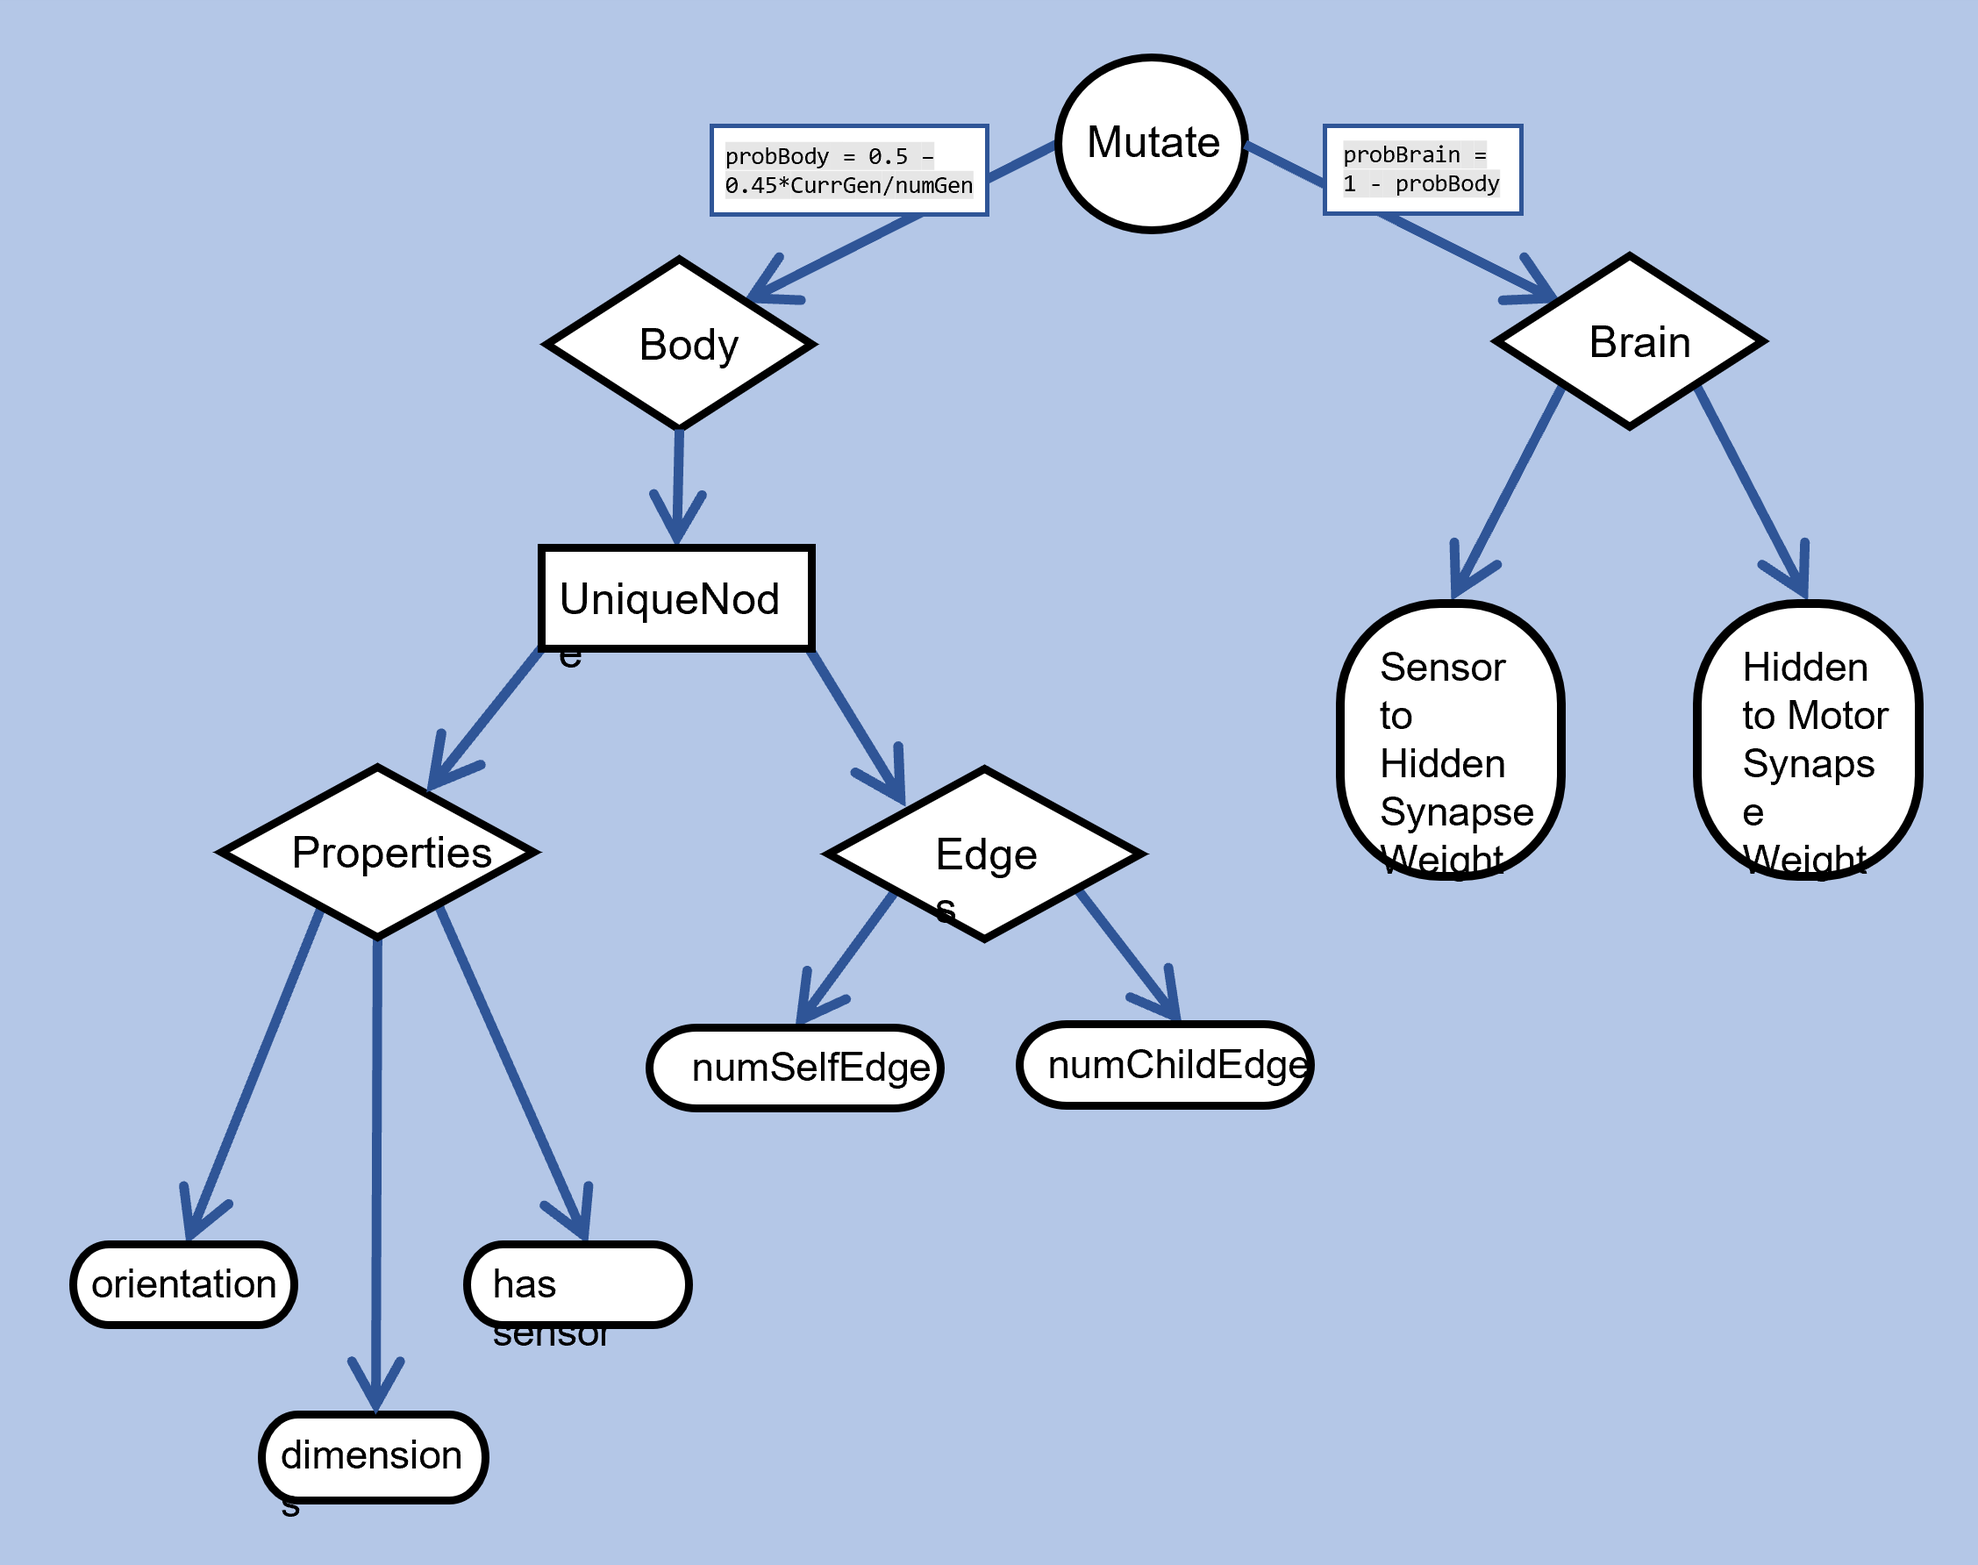
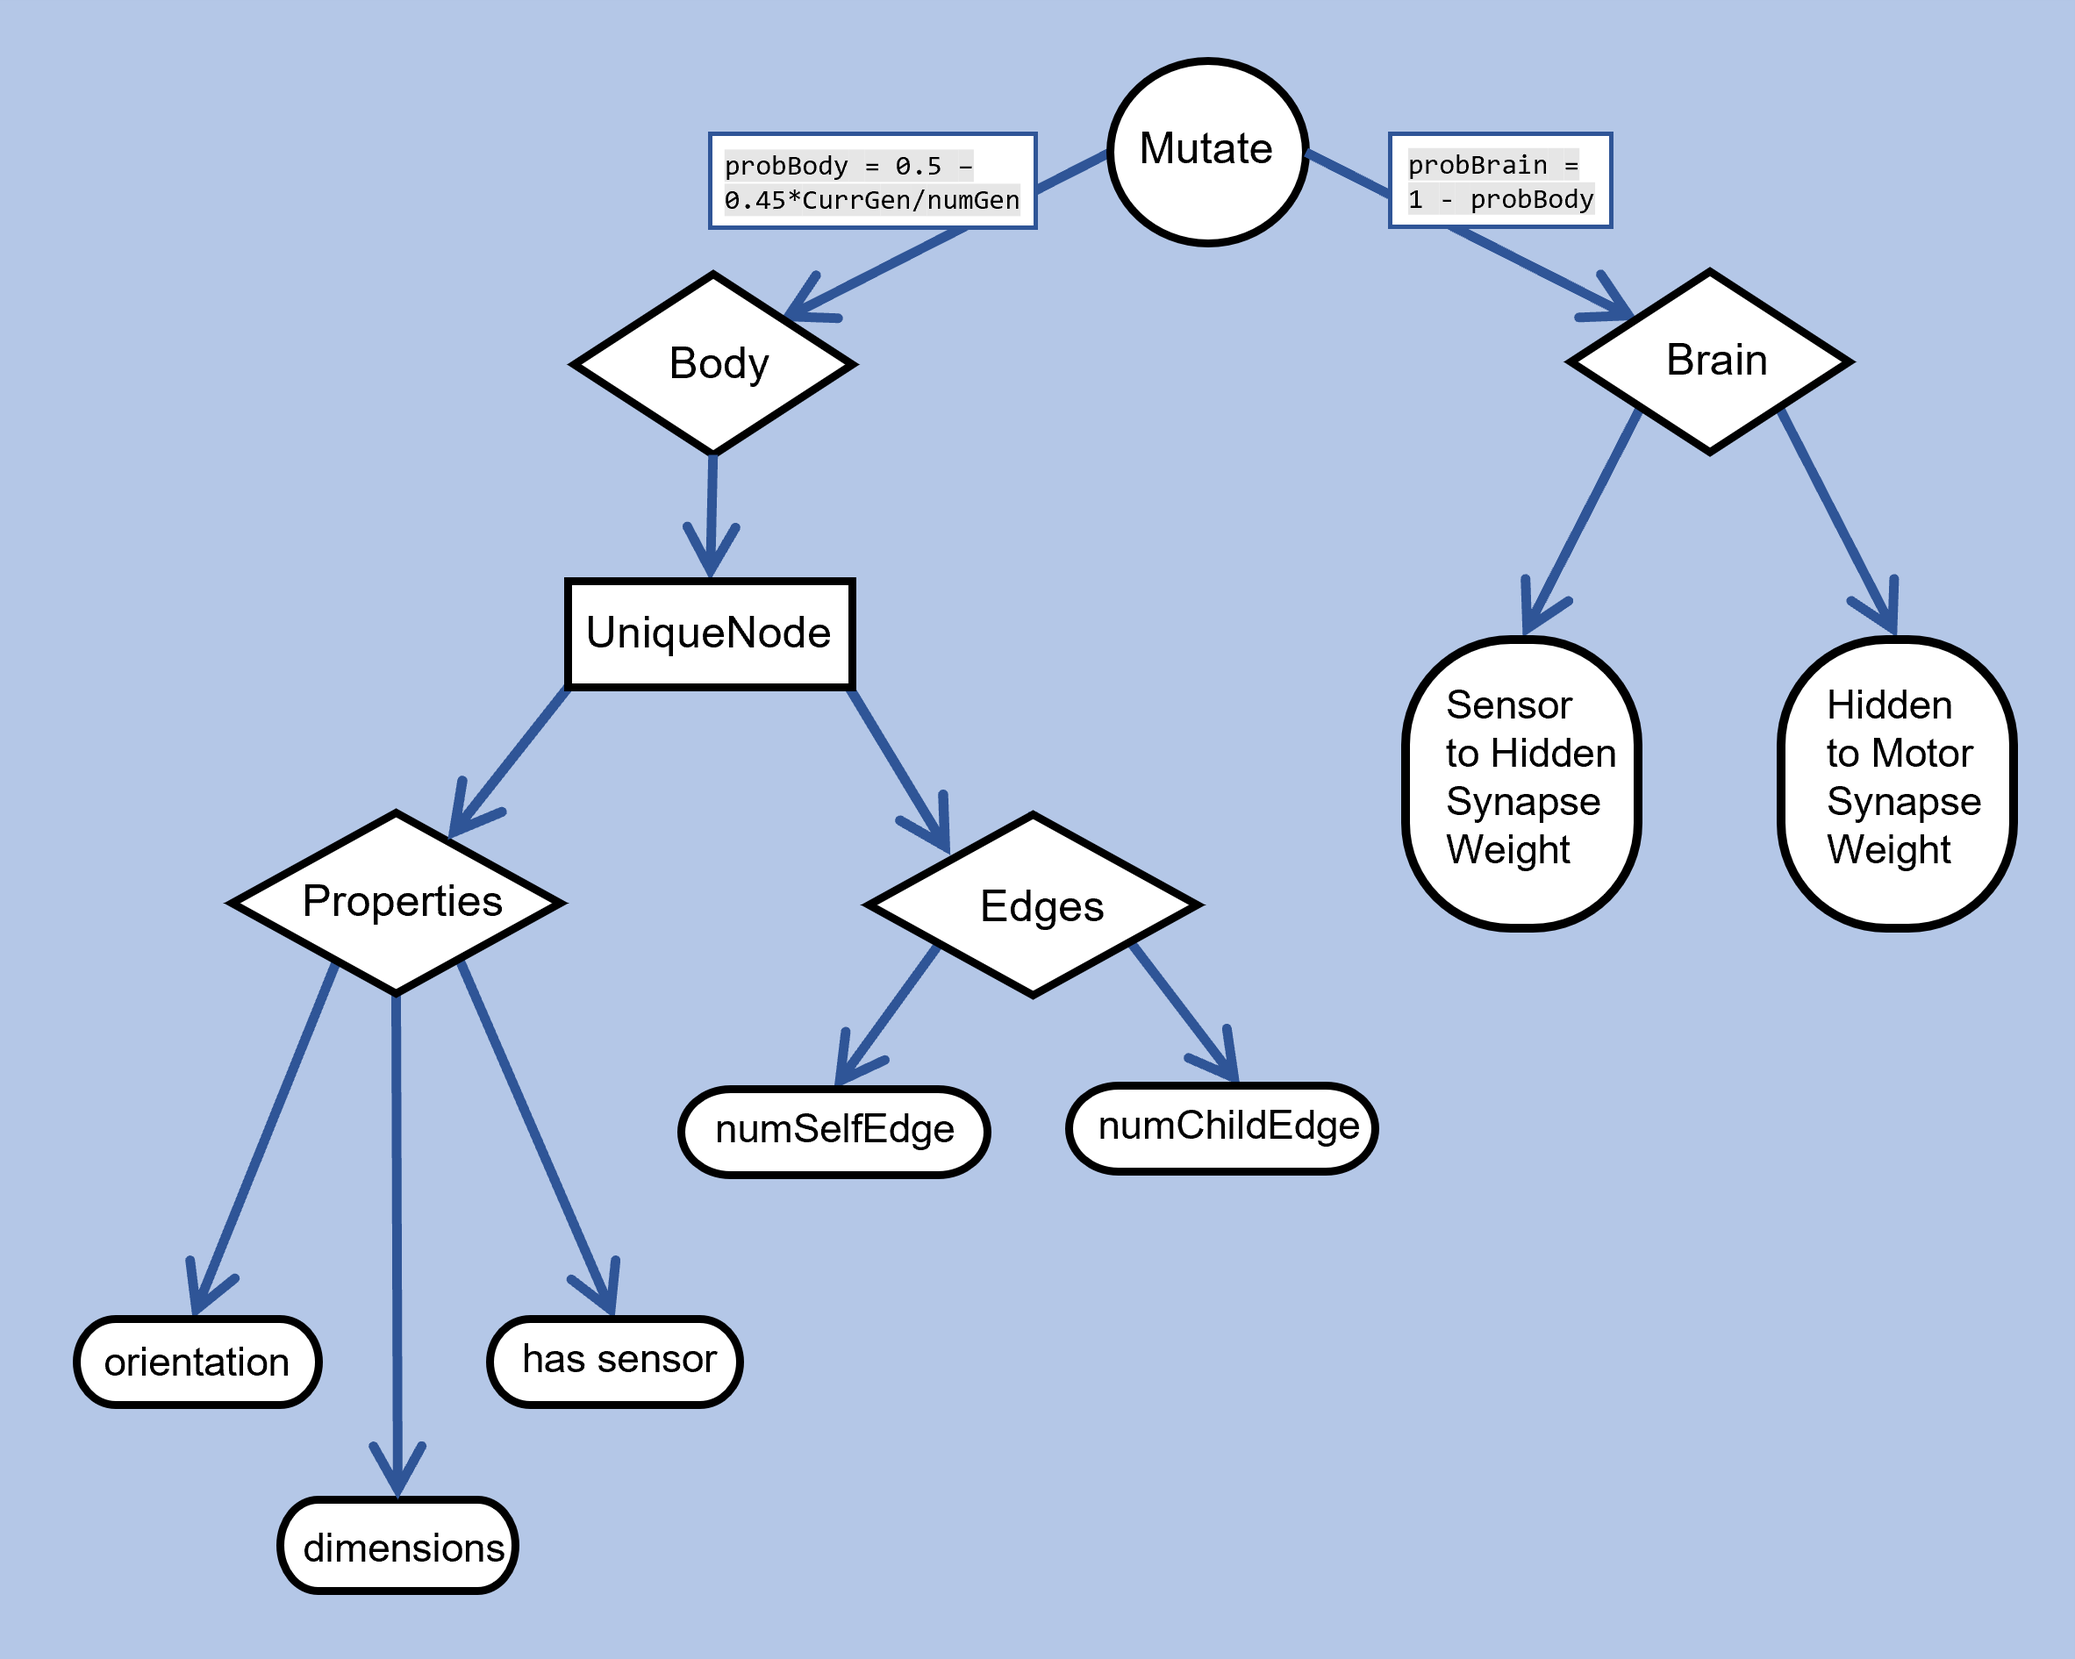
documentation for assignment 8

diff --git a/README.md b/README.md
@@ -1,13 +1,13 @@
-## Description
+# Description
 
 This repo contains work for the Northwestern University course Computer Science 396: Artificial Life. 
 Branches up through 'ludobots-final-project' follow the [ludobots](https://www.reddit.com/r/ludobots/) online course on Evolutionary Robotics.
 
-## Installation
+# Installation
 
-This code runs on Python 3.11.0.
+This code runs on Python 3.9.13
 Dependencies are managed through an Anaconda environment.
-To copy this the environment, first install Anaconda. Then, run 
+To copy this the environment, first [install Anaconda](https://docs.anaconda.com/anaconda/install/index.html). Then, run 
 ```bash
 conda env create --name <new environment name> --file ludobot_env.txt
 ```
@@ -15,7 +15,7 @@ Before running anything, make sure to first activate the environment with
 ```bash
 conda activate <new environment name>
 ```
-## Usage
+# Usage
 Instructions on running the code are as follows:
 Use the command 
 ```bash 
@@ -26,10 +26,10 @@ For running multiple searches in a row, first set the list of desired seeds in l
 ```bash
 sh search.py
 ```
-Both error messages and console outputs will be saved in the file "out<seed>.txt". A numpy array of fitness values as well as brain.nndf and body.urdf files for the best robots will be saved in a folder named <seed>.
-To analyze a certain search by showing and saving a fitness curve (plot of best fitness value for each generation), run the command:
+Both error messages and console outputs will be saved in the file "out\<seed>.txt". A numpy array of fitness values as well as brain.nndf and body.urdf files for the best robots will be saved in a folder named <seed>.
+To analyze a certain search by showing and saving a fitness curve (plot of best fitness value for each generation), run the command with one or more seeds
 ```bash
-python analyze.py GUI <solutionID> <seed>
+python analyze.py GUI <list of seeds>
 ```
 To rerun a certain simulation in GUI mode, ensure the brain file is saved as "<seed>\brain<solutionID\>.nndf" and the body file is saved as "<seed>\body<solutionID\>.urdf". This will be the case if search.py is run properly. Then, run the command: 
 ```bash
@@ -37,20 +37,26 @@ python simulate.py GUI <solutionID> <seed>
 ```
 Parameters such as number of generations and population size, and simulation length can be set in the file `constants.py`.
 
-NOTE: certain lines use `os.system()` calls, which are operating system specific.
-The code is currently written for a windows machine using a bash terminal. 
-See [r/ludobots: parallelhillclimber](https://www.reddit.com/r/ludobots/wiki/parallelhc/) for details on how to change this.
+NOTE: The code has only been tested running from a Git Bash terminal on a windows machine.
 
+# Assignment 8: random 3D morphologies
+[Assignment 8](https://youtu.be/nzlCZm1mh3U), found on the [`evolve-random-body`](https://github.com/taliabn/my-ludobots/tree/evolve-random-body) branch, adds the capability to evolve both brains and bodies simultaneously.
 
-## Assignment 7: random 3D morphologies
-[Assignment 7](https://youtube.com/shorts/HM3KmLzGZqs?feature=share), found on the [`random-3D-bodies`](https://github.com/taliabn/my-ludobots/tree/random-3D-bodies) branch, adds the capability to randomly generate morphologies.
+## Evaluation
+The fitness function used to select creatures after each generation of evolution is displacement of the root link in the negative x direction. A hillclimber algorithm is used, meaning that parents are compared to children, and if the child has a better fitness, it replaces the parent in the population. Figure 1 shows an example of evolution for five trials, each starting from a different random seed. [These parameters](#parameters) were used in this simulation, and can be changed in `constants.py`.
 
-### Method to generate bodies
+![Line graph of fitness curves](/figures/a8-fitness-curves.png )
+**Figure 1. Fitness for five trials, each for 150 generations with a population of 30**
+
+<br>
+
+## Method to Generate Bodies
 3D bodies are recursively generated using graph-based body plans, a mehod that is heavily influenced by [Karl Sims'](https://www.karlsims.com/evolved-virtual-creatures.html) work<sup>[1]</sup>.
 
-Properties of creatures are divided into two categories, those randomly generated for each creature and those determined by "DNA" genotype that identifies a general body plan. This means that it is *not* a direct encoding between phenotypes and genotypes. See Table 1  for a summary. The body plan genotype graph encodes the number of uniqe link types, number of children for each link, and number of clones of each link (self edges). Each unique link has its own link dimensions, joint axis, directionality, and presence of sensor and corresponding color. See Figure 1 for an example of how body plans are generated. 
+Properties of creatures are divided into two categories, those randomly generated for each creature and those determined by "DNA" genotype that identifies a general body plan. This means that it is *not* a direct encoding between phenotypes and genotypes. See Table 1  for a summary. The body plan genotype graph encodes the number of uniqe link types, number of children for each link, and number of clones of each link (self edges). Each unique link (represented as a `UniqueNode` class in `body.py`) has its own dimensions, joint axis, orientation, and presence of sensor and corresponding color. See Figure 2 for an example of how body plans are generated.   
 
-Note that the indirect encoding mechanism has an important implication: a single genotype can lead to multiple phenotypes. 
+When running the simulation in GUI mode, links with sensors are colored green, and links without sensors are colored blue. Parameters dictating the range of link side lengths and the maximum number of links can be set in `constants.py`. 
+
 
 | random | encoded |
 | ------ | ------- |
@@ -58,61 +64,95 @@ Note that the indirect encoding mechanism has an important implication: a single
 | sensor placement | number of clones (self edges)
 | joint axis and directionality | number of new children (edges to next node)
 
-Table 1. Summary of random vs encoded body part properties
+**Table 1. Summary of random vs encoded body part properties**
 
 ![figure explaining how a numerical encoding of a body plan is transformed into a virtual creature](/figures/a7-fig1.png) 
 
-Figure 1. Body plan encoding to pheontype relationship
+**Figure 2. Body plan encoding to pheontype relationship**
 
-Note that the indirect encoding mechanism has an important implication: a single genotype can lead to multiple phenotypes. 
+Note that this *indirect encoding* mechanism has an important implication: a single genotype can lead to multiple phenotypes. 
 
-To ensure that body plans follow basic laws of physics, before adding a link to the body, we check that there is no existing link in the same absolute position, preventing overlapping body parts. This means that some links specified by the genotype may not end up in the final body. To allow for freer growth in the z-direction, the robot starts at an absolute position of [0,0,3] and drops to the ground when the simulation starts. Additionally, we check that the absolute z position of a link isn't negative (i.e below the floor) before adding it.
+To ensure that body plans follow basic laws of physics, before adding a link to the body, we check that there is no existing link in the same absolute position, preventing overlapping body parts. This means that some links specified by the genotype may not end up in the final body. To allow for freer growth in the z-direction, the creature starts at an absolute position of [0,0,1.5] and drops to the ground when the simulation starts. Additionally, we check that the absolute z position of a link isn't negative (i.e below the floor) before adding it.
 
-#### Benefits:
+##### [1] "Evolving Virtual Creatures" K.Sims, Computer Graphics (Siggraph '94 Proceedings), July 1994, pp.15-22  
+
+### Benefits:
 * Duplicated body parts create symmetry, which mimics nature
 * Indirect encoding enables diversity of creatures and also mimics nature
 
-#### Drawbacks:
+### Drawbacks:
 * linear graph structure: each unique node only connects to next unique node
 * 2 children edges per node maximum
 * can only branch at right angles
 * symmetry can limit the potential morphospace
 
-### Method to generate brains
-Brains are generated with a structure resembling that of a traditional feed forward neural network. There is one sensor neuron for each link with a sensor and one motor neuron for each link. Sensor neurons are connected to a layer of hidden neurons which are then connected to motor neurons. All synsapses start with a random weight between -1 and 1. The number of sensor and motor neurons is specific to each body plan, and `numHiddenNeurons` can be specified in `constants.py`. See Fig. 2 for an example of brain structure.
+<br>
+
+## Method to Generate Brains
+Brains have a structure resembling that of a traditional feed forward neural network. There is one sensor neuron for each link with a sensor and one motor neuron for each link. Sensor neurons are connected to a layer of hidden neurons which are then connected to motor neurons. All synsapses start with a random weight between -1 and 1. The number of sensor and motor neurons is specific to each body plan, and `numHiddenNeurons` can be specified in `constants.py`. See Fig. 3 for an example of brain structure.
 
 ![figure illustrating structure that resembles a neural network](/figures/a7-fig2.png) 
 
-Figure 2. Structure of robot brains
+**Figure 3. Structure of creature brains**  
 
-#### Parameters
-The following parameters were used in the final simulations for this assignmment:
-* `maxNumNodes = 5`
-* `maxNumSelfEdges = 4`
+<br>
+
+## Method to Mutate Brains and Bodies
+During a cycle of evolution, each individual in the population undergoes exactly *one* mutation. The process for choosing which element to mutate is detailed in Figure 4. Each branch in the flowchart is equally likely to be taken, except for the initial decision between mutating the brain or the body. This choice is weighted so that body mutations are more likely earlier in evolution and brain mutations are more likely in later generations. This balances exploring more of the morphospace with fine tuning a certain body for motion.
+
+![flowchart that resembles a decision tree explaining possible mutations](/figures/a8-fig1.png) 
+**Figure 4. Flowchart of possible mutations**
+
+For mutating brains, it is useful to make the distinction that synapse weights are not related to the UniqueNode object that their associated links came from. However, synapse weights are preserved from generation to generation, except for the cases where a pre-existing link was removed or a new link was added. The number of links can change if the number of edges of a unique node change or if the dimensions or orientation of a link are mutated such that it will go below the floor or change which potential future links will or will not overlap with it.
+
+It is important to note that certain types of mutations are not permitted, namely removing a unique node or adding a new unique node to a body plan. Changing the number of hidden neurons or structure of the brain is also not possible. These decisions were made because larger mutations are more likely to be harmful in the process of evolutions.
+
+<br>
+
+## Parallel Computing
+Since evolution trials are computationally expensive and time intensive to run, this version of the code allows for parallel execution of simulations using the [`pathos`](https://pypi.org/project/pathos/) multiprocessing framework. Simulations for assignment 8 were run using 7 logical CPUs on a windows machine that has 8 total available. Previous iterations of the code ran simulations concurrently, but coordination and communication between processes used disk files as an intermediate, which was slow and caused the simulation to sometimes raise file permission errors. The new method using multiprocessing circumvents that error and explicitly instructs the simulation processes to run in parallel, which was not gauranteed in previous versions of the code. 
+
+<br>
+
+## Parameters
+The following parameters were used in the final simulations for assignmment 8:
+* `populationSize = 2`
+* `numberOfGenerations = 2`
+* `steps = 1000`
+* `stepLength = 1/120`
+* `numHiddenNeurons = 4`
+* `motorJointRange = 1`
+* `maxMotorForce = 30`
+* `maxNumNodes = 4`
+* `maxNumSelfEdges = 3`
 * `maxNumChildEdges = 2`
 * `minSideLen = 0.1`
-* `maxSideLen = 1`
-[1] "Evolving Virtual Creatures" K.Sims, Computer Graphics (Siggraph '94 Proceedings), July 1994, pp.15-22
+* `maxSideLen = 0.75`
+* `startingPos = [0, 0, 1.5]`  
 
-## from A 6:
-The robots consist of a chain of links on the floor connected by joints that can rotate around the z-axis. Touch sensors are placed on random links, and each link has a 50% chance of having a sensor. When running the simulation in GUI mode, links with sensors are colored green, and links without sensors are colored blue. Parameters dictating the range of link side lengths and the maximum number of links can be set in `constants.py`. There will always be a minimum of two links and one joint between them. 
 
-## Past Assignments
+# Previous Assignments
 
-## Assignment 6: random 1D morphologies
+### Assignment 7: random 3D morphologies
+[Assignment 7](https://youtube.com/shorts/HM3KmLzGZqs?feature=share) adds the capability to randomly generate morphologies that fill three dimensional space. See the branch [`random-3D-bodies`](https://github.com/taliabn/my-ludobots/tree/random-3D-bodies) for further details.
+
+
+### Assignment 6: random 1D morphologies
 [Assignment 6](https://youtu.be/uXb1K-MACNE) adds the capability to randomly generate morphologies in one dimensions. See the branch [`random-1D-bodies`](https://github.com/taliabn/my-ludobots/tree/random-1D-bodies) for further details.
 
-## Assignment 5: Ludobots Final Project
+### Assignment 5: Ludobots Final Project
 The [Ludobots final project](https://youtu.be/qypMeX9zdyQ),  demonstrates the use of a Parallel hillclimber and an evolution through random mutations to create robots that can climb a set of stairs. See the branch [`ludobots-final-project`](https://github.com/taliabn/my-ludobots/tree/ludobots-final-project) for further details.
 
-## Assignments 1-4:
+### Assignments 1-4:
 See [ludobots](https://www.reddit.com/r/ludobots/) online course on Evolutionary Robotics for further details. Code can be found in branches up until 'ludobots-final-project'.
 
-## Contact
+# Contact
 
-Talia Ben-Naim - taliaben-naim2025@u.northwestern.edu
+Talia Ben-Naim: taliaben-naim2025@u.northwestern.edu  
+[LinkedIn](www.linkedin.com/in/talia-ben-naim
+)
 
-## Acknowledgments
+# Acknowledgments
 
 * [r/ludobots](https://www.reddit.com/r/ludobots/)
 * [pyrosim](https://github.com/ccappelle/pyrosim)
